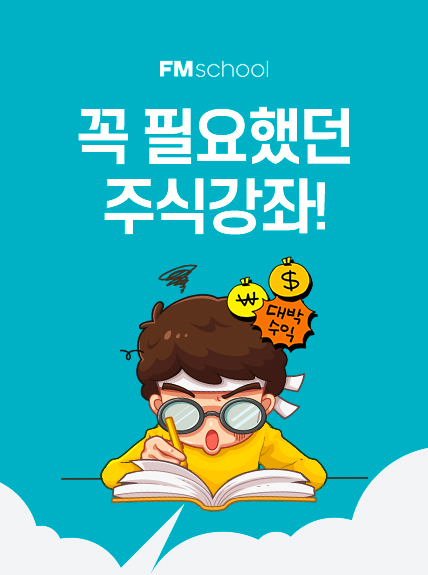
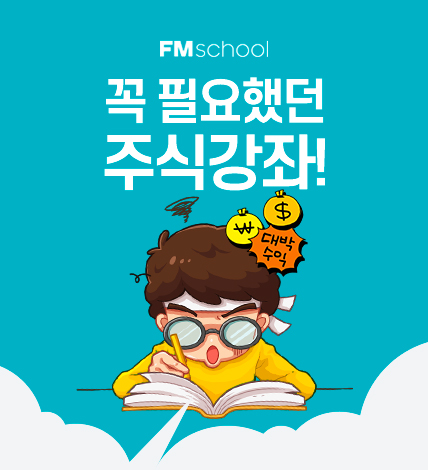
intro height change

Changed region(s): [[0.1519, 0.0894, 1.0, 0.983], [0.0, 0.7745, 0.3341, 0.983], [0.3341, 0.983, 0.3645, 1.0]]

diff --git a/dist/scss/comm.scss b/dist/scss/comm.scss
@@ -80,18 +80,18 @@
 }
 // header
 .intro {
-    height: 575px;
+    height: 470px;
     background: #00aec2 url(../../images/img-hd.jpg) 50% 0 no-repeat;
     text-indent: -9999px;
 }
 #gnb {
-    padding: 17px 5% 26px;
+    padding: 5px 5% 26px;
     background-color: #f2f4f6;
 }
 .lst-gnb {
     margin: 0 auto;
     li {
-        margin-bottom: 14px;
+        margin-bottom: 6px;
         .img {
             display: flex;
             justify-content: center;
@@ -122,9 +122,9 @@
         position: relative;
         display: flex;
         align-items: center;
-        height: 77px;
+        height: 60px;
         padding: 0 5%;
-        border-radius: 18px;
+        border-radius: 12px;
         box-shadow: 4px 6.9px 27.4px 0.6px rgba(0, 0, 0, 0.12);
         border: solid 1px #ddd;
         background-color: #fff;

diff --git a/dist/css/comm.css b/dist/css/comm.css
@@ -418,13 +418,13 @@ legend {
 }
 
 .intro {
-  height: 575px;
+  height: 470px;
   background: #00aec2 url(../../images/img-hd.jpg) 50% 0 no-repeat;
   text-indent: -9999px;
 }
 
 #gnb {
-  padding: 17px 5% 26px;
+  padding: 5px 5% 26px;
   background-color: #f2f4f6;
 }
 
@@ -433,7 +433,7 @@ legend {
 }
 
 .lst-gnb li {
-  margin-bottom: 14px;
+  margin-bottom: 6px;
 }
 
 .lst-gnb li .img {
@@ -470,9 +470,9 @@ legend {
   -webkit-box-align: center;
       -ms-flex-align: center;
           align-items: center;
-  height: 77px;
+  height: 60px;
   padding: 0 5%;
-  border-radius: 18px;
+  border-radius: 12px;
   -webkit-box-shadow: 4px 6.9px 27.4px 0.6px rgba(0, 0, 0, 0.12);
           box-shadow: 4px 6.9px 27.4px 0.6px rgba(0, 0, 0, 0.12);
   border: solid 1px #ddd;
